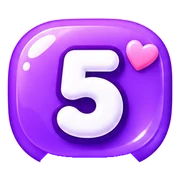
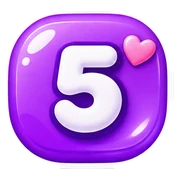
Sign-in pad: keys 5–9 redrawn with a clean bottom edge
The first pack's 5–9 had small notches on their bottom edge (cut out of one sheet);
the owner's redrawn set matches 1–4 and 0 in size and finish. Same files, same names.
sw mbs-v141

Claude-Session: https://claude.ai/code/session_017iRLZJ3ouaf6dB3Z7mKXA3

diff --git a/public/sw.js b/public/sw.js
@@ -1,6 +1,6 @@
 // Memory Bookshelf service worker: app shell + all drawn art offline from the first visit; photos cached as you view them
 // (or all at once with "Keep this book offline"). Data (/api) is cached by the app itself (IndexedDB) and written through its queue.
-const V = 'mbs-v140';
+const V = 'mbs-v141';
 const SHELL = ['/', '/app.css', '/core.js', '/views.js', '/sheets.js', '/kid.js', '/manifest.webmanifest', '/icon-192.png',
   '/fonts/KIRA-UI-Regular.woff2', '/fonts/KIRA-UI-Medium.woff2', '/fonts/KIRA-UI-SemiBold.woff2', '/fonts/KIRA-UI-Bold.woff2',
   '/fonts/CormorantGaramond-SemiBold.woff2', '/fonts/CormorantGaramond-MediumItalic.woff2'];
